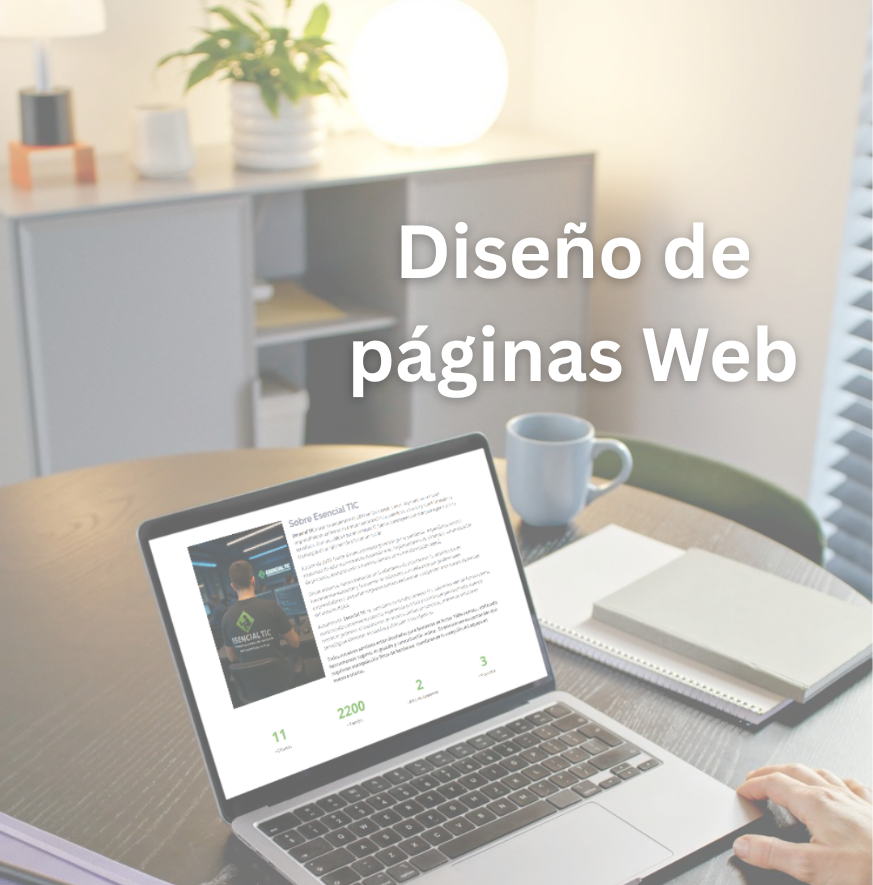
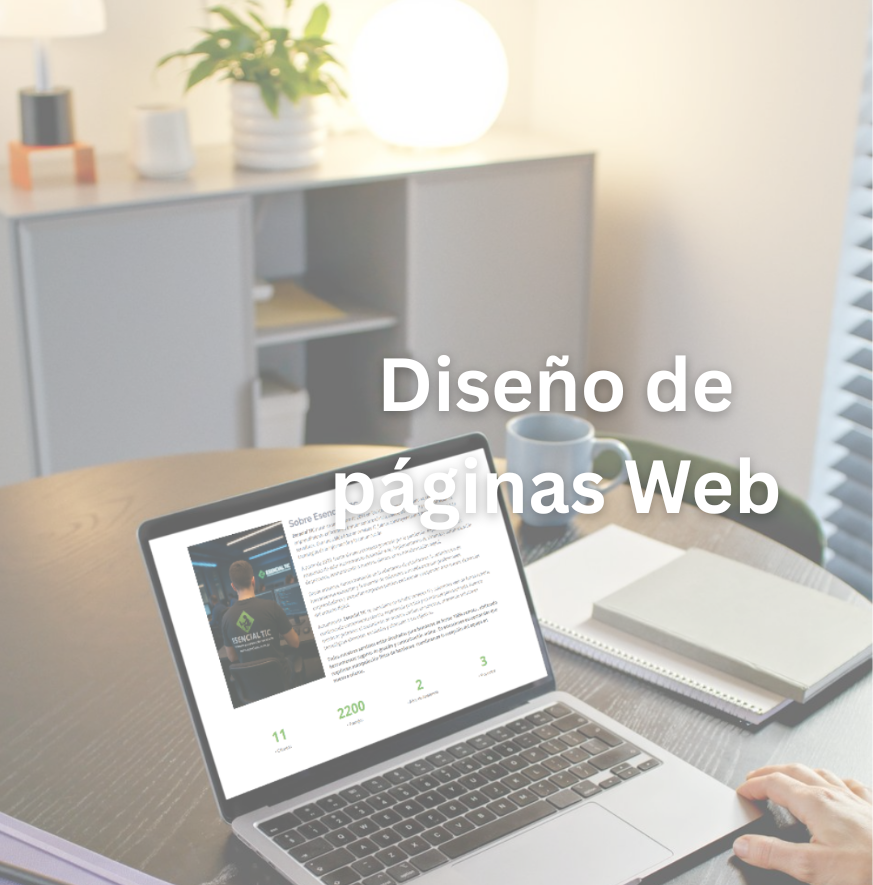
fix slide + content service

Changed region(s): [[0.4021, 0.3661, 0.9278, 0.4881], [0.3711, 0.5186, 0.8969, 0.6102], [0.433, 0.2441, 0.866, 0.3356]]

diff --git a/src/components/ServiceForm.jsx b/src/components/ServiceForm.jsx
@@ -3,6 +3,7 @@ import { useEffect, useState } from "react";
 const EMPTY_FORM = {
   title: "",
   description: "",
+  content: "",
   price: "",
   category: "",
   image_url: "",
@@ -11,6 +12,7 @@ const EMPTY_FORM = {
 const mapInitialValues = (values = {}) => ({
   title: values.title ?? values.titulo ?? "",
   description: values.description ?? values.descripcion ?? "",
+  content: values.content ?? values.content ?? "",
   price: values.price ?? values.precio ?? "",
   category: values.category ?? values.categoria ?? "",
   image_url: values.image_url ?? values.image ?? values.imagen ?? "",
@@ -44,6 +46,10 @@ export default function ServiceForm({
       newErrors.description = "La descripción es obligatoria";
     }
 
+    if (!form.content.trim()) {
+      newErrors.content = "El contenido es obligatoria";
+    }
+
     if (form.price === "" || Number.isNaN(Number(form.price))) {
       newErrors.price = "Ingresa un precio válido";
     }
@@ -62,6 +68,7 @@ export default function ServiceForm({
     onSubmit({
       title: form.title,
       description: form.description,
+      content: form.content,
       price: Number(form.price),
       category: form.category,
       image_url: form.image_url,
@@ -69,6 +76,7 @@ export default function ServiceForm({
       imagen: form.image_url,
       titulo: form.title,
       descripcion: form.description,
+      contenido: form.content,
       categoria: form.category,
       precio: Number(form.price),
     });

diff --git a/src/routes/AdminRouteSuper.jsx b/src/routes/AdminRouteSuper.jsx
@@ -4,8 +4,8 @@ import { useAuth } from "../context/AuthContext";
 export default function AdminRouteSuper({ children }) {
   const { user } = useAuth();
 
-  // id=1 superadmin
-  if (user?.id !== 1) return <Navigate to="/" />;
+  // id=2 superadmin
+  if (user?.id !== 2) return <Navigate to="/" />;
 
   return children;
 }
